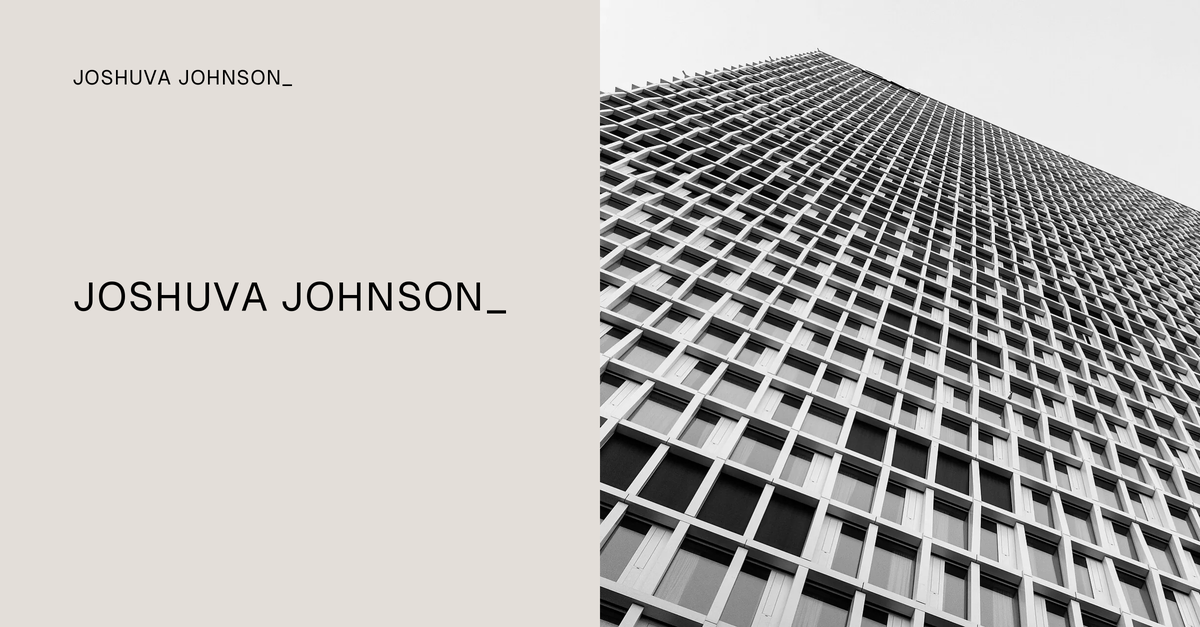
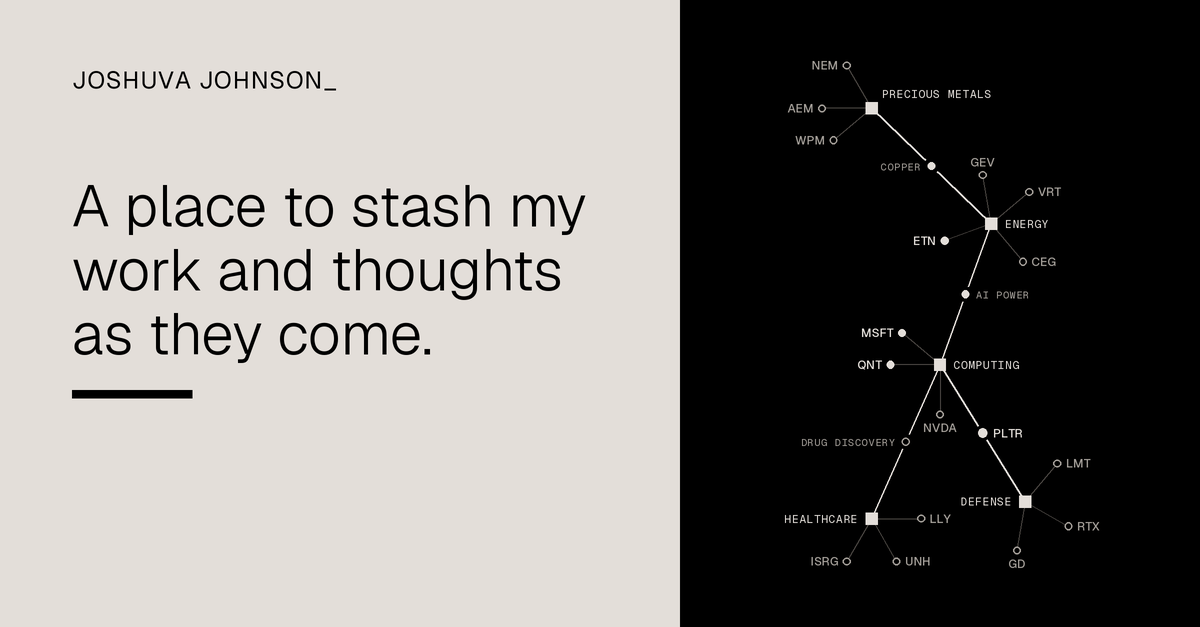
Home share image: the intro line and the map of what I follow; facade photo removed
build.py's map geometry is now shared, so the page and the share image
draw the same map from the same watchlist.

Claude-Session: https://claude.ai/code/session_01Dc4KQMDr4px4SMpMrXU2Lh

diff --git a/src/og.py b/src/og.py
@@ -16,7 +16,7 @@ from fontTools.ttLib import TTFont
 from PIL import Image, ImageDraw, ImageFont, ImageOps
 
 sys.path.insert(0, str(pathlib.Path(__file__).resolve().parent))
-from build import ROOT, load_articles, nice_date  # noqa: E402
+from build import MAP_LAYOUTS, ROOT, SRC, load_articles, map_geometry, nice_date, read_doc  # noqa: E402
 
 W, H, S = 1200, 627, 2          # final size, drawn at 2x and scaled down
 M = 72                          # outer margin
@@ -176,13 +176,64 @@ def article_image(meta, body):
     return im
 
 
+def text_at(d, x, y, anchor, text, font, fill, track=0.0):
+    """Text placed by its baseline, anchored start, middle or end, as SVG does it."""
+    w = tracked_width(text, font, track)
+    x -= {'start': 0, 'middle': w / 2, 'end': w}[anchor]
+    x, y = x * S, y * S
+    for ch in text:
+        d.text((x, y), ch, font=font, fill=fill, anchor='ls')
+        x += font.getlength(ch) + track * font.size
+
+
+def draw_map(d, watch, x0, y0, scale):
+    """The home page's map, light on black, from the same geometry as the page."""
+    lay = MAP_LAYOUTS['tall']
+    g = map_geometry(watch, lay)
+    F = lay['font']
+    P = lambda x, y: ((x0 + x * scale) * S, (y0 + y * scale) * S)  # noqa: E731
+    rule, quiet = (74, 70, 66), INK2_DARK
+    for x1, y1, x2, y2 in g['spokes']:
+        d.line([P(x1, y1), P(x2, y2)], fill=rule, width=2)
+    for ln in g['links']:
+        x1, y1, x2, y2 = ln['line']
+        d.line([P(x1, y1), P(x2, y2)], fill=BONE, width=3)
+
+    def dot(x, y, r, filled):
+        (cx, cy), rr = P(x, y), r * scale * S
+        d.ellipse([cx - rr, cy - rr, cx + rr, cy + rr], fill=BONE if filled else BLACK, outline=BONE if filled else quiet, width=3)
+
+    def label(lab, font, fill, track=0.0):
+        tx, ty, anchor, text = lab
+        text_at(d, x0 + tx * scale, y0 + ty * scale, anchor, text, font, fill, track)
+
+    tk, tk_mono, sec_mono = sans(F * scale, 500), mono((F - 2) * scale), mono((F - 1) * scale)
+    for c in g['companies']:
+        dot(c['x'], c['y'], 4.5, c['piece'])
+        label(c['label'], tk, BONE if c['piece'] else quiet)
+    for ln in g['links']:
+        (cx, cy), rr = P(ln['x'], ln['y']), 9 * scale * S
+        d.ellipse([cx - rr, cy - rr, cx + rr, cy + rr], fill=BLACK)
+        dot(ln['x'], ln['y'], 5.5 if ln['ticker'] else 4.5, ln['piece'])
+        label(ln['label'], tk if ln['ticker'] else tk_mono, BONE if ln['ticker'] else quiet, 0 if ln['ticker'] else 0.06)
+    for s in g['sectors']:
+        (cx, cy), h = P(s['x'], s['y']), 7 * scale * S
+        d.rectangle([cx - h, cy - h, cx + h, cy + h], fill=BONE)
+        label(s['label'], sec_mono, BONE, 0.06)
+
+
 def home_image(meta):
+    """Home: the site's one line on bone, and the map of what I follow on black."""
     im, d = canvas()
-    half = W // 2
-    tracked(d, M, 270, 'JOSHUVA JOHNSON_', sans(40, 400), BLACK, 0.03)
-    if not photo_panel(im, ROOT / 'assets' / 'img' / 'facade-1280.webp', half):
-        d.rectangle([half * S, 0, W * S, H * S], fill=BLACK)
-    wordmark(d, M, M - 8, size=20)
+    panel = 520
+    wordmark(d, M, M - 8)
+    title_block(d, 'A place to stash my work and thoughts as they come.', None, M, 168, W - panel - 2 * M,
+                sizes=(64, 58, 52), max_lines=3)
+    x0 = W - panel
+    d.rectangle([x0 * S, 0, W * S, H * S], fill=BLACK)
+    lay = MAP_LAYOUTS['tall']
+    scale = min((panel - 80) / lay['w'], (H - 80) / lay['h'])
+    draw_map(d, meta['watchlist'], x0 + (panel - lay['w'] * scale) / 2, (H - lay['h'] * scale) / 2, scale)
     return im
 
 
@@ -213,7 +264,7 @@ def main():
     notes, research = load_articles('notes'), load_articles('research')
     for meta, body in notes + research:
         made.append(save(article_image(meta, body), key_for(meta['path'])))
-    made.append(save(home_image(None), 'home'))
+    made.append(save(home_image(read_doc(SRC / 'content' / 'pages' / 'home.html')[0]), 'home'))
     rows = []
     for meta, body in research:
         figs = key_figures(body) if meta.get('kind') == 'pitch' else []

diff --git a/src/build.py b/src/build.py
@@ -213,6 +213,42 @@ def piece_label(url, pieces):
     return f'Stock pitch: {p["rating"]}' if p.get('rating') else p.get('title', 'Read it')
 
 
+def side_of(deg):
+    """Which side of a company's dot its ticker goes on, from the angle it fans out at."""
+    c, s = math.cos(math.radians(deg)), math.sin(math.radians(deg))
+    return 'e' if c > 0.42 else 'w' if c < -0.42 else ('s' if s > 0 else 'n')
+
+
+def label_at(x, y, side, gap, F):
+    """Where a label's baseline starts, and its anchor, for a dot at (x, y) and text of size F."""
+    d = gap * 0.75  # diagonal sides sit a little closer
+    return {'n': (x, y - gap, 'middle'), 's': (x, y + gap + 0.75 * F, 'middle'),
+            'e': (x + gap, y + 0.35 * F, 'start'), 'w': (x - gap, y + 0.35 * F, 'end'),
+            'ne': (x + d, y - d, 'start'), 'nw': (x - d, y - d, 'end'),
+            'se': (x + d, y + d + 0.75 * F, 'start'), 'sw': (x - d, y + d + 0.75 * F, 'end')}[side]
+
+
+def map_geometry(watch, lay):
+    """Every line, dot and label of the map in one layout. src/og.py draws the share image from this."""
+    R, F = lay['r'], lay['font']
+    pos = {k: (x, y) for k, (x, y, _) in lay['at'].items()}
+    g = {'links': [], 'spokes': [], 'companies': [], 'sectors': []}
+    for s in watch['sectors']:
+        x, y = pos[s['id']]
+        for c, deg in zip(s['companies'], lay['fan'][s['id']]):
+            cx, cy = x + R * math.cos(math.radians(deg)), y + R * math.sin(math.radians(deg))
+            g['spokes'].append((x, y, cx, cy))
+            g['companies'].append({'x': cx, 'y': cy, 'piece': len(c) > 2, 'label': (*label_at(cx, cy, side_of(deg), 10, F), c[0])})
+        g['sectors'].append({'x': x, 'y': y, 'label': (*label_at(x, y, lay['at'][s['id']][2], 16, F), s['name'].upper())})
+    for b in watch['bridges']:
+        (x1, y1), (x2, y2) = (pos[x] for x in b['between'])
+        mx, my = (x1 + x2) / 2, (y1 + y2) / 2
+        text = b.get('ticker') or b['label'].upper()
+        g['links'].append({'line': (x1, y1, x2, y2), 'x': mx, 'y': my, 'piece': bool(b.get('url')), 'ticker': bool(b.get('ticker')),
+                           'label': (*label_at(mx, my, lay['side'][b['id']], 12, F), text)})
+    return g
+
+
 def watch_map(watch, pieces):
     """The connection map: an SVG for wide screens, one for phones, and the captions they share.
     Returns (html, css). The css lights up whatever belongs to the sector or link under the pointer."""
@@ -253,16 +289,8 @@ def watch_map(watch, pieces):
         lines, nodes, under = [], {}, []
 
         def label(x, y, side, text, cls, gap=10):
-            d = gap * 0.75  # diagonal sides sit a little closer
-            tx, ty, anchor = {'n': (x, y - gap, 'middle'), 's': (x, y + gap + 0.75 * F, 'middle'),
-                              'e': (x + gap, y + 0.35 * F, 'start'), 'w': (x - gap, y + 0.35 * F, 'end'),
-                              'ne': (x + d, y - d, 'start'), 'nw': (x - d, y - d, 'end'),
-                              'se': (x + d, y + d + 0.75 * F, 'start'), 'sw': (x - d, y + d + 0.75 * F, 'end')}[side]
+            tx, ty, anchor = label_at(x, y, side, gap, F)
             return f'<text class="{cls}" x="{tx:.0f}" y="{ty:.0f}" text-anchor="{anchor}">{esc(text)}</text>'
-
-        def side_of(deg):
-            c, s = math.cos(math.radians(deg)), math.sin(math.radians(deg))
-            return 'e' if c > 0.42 else 'w' if c < -0.42 else ('s' if s > 0 else 'n')
 
         for s in sectors:
             x, y = pos[s['id']]
